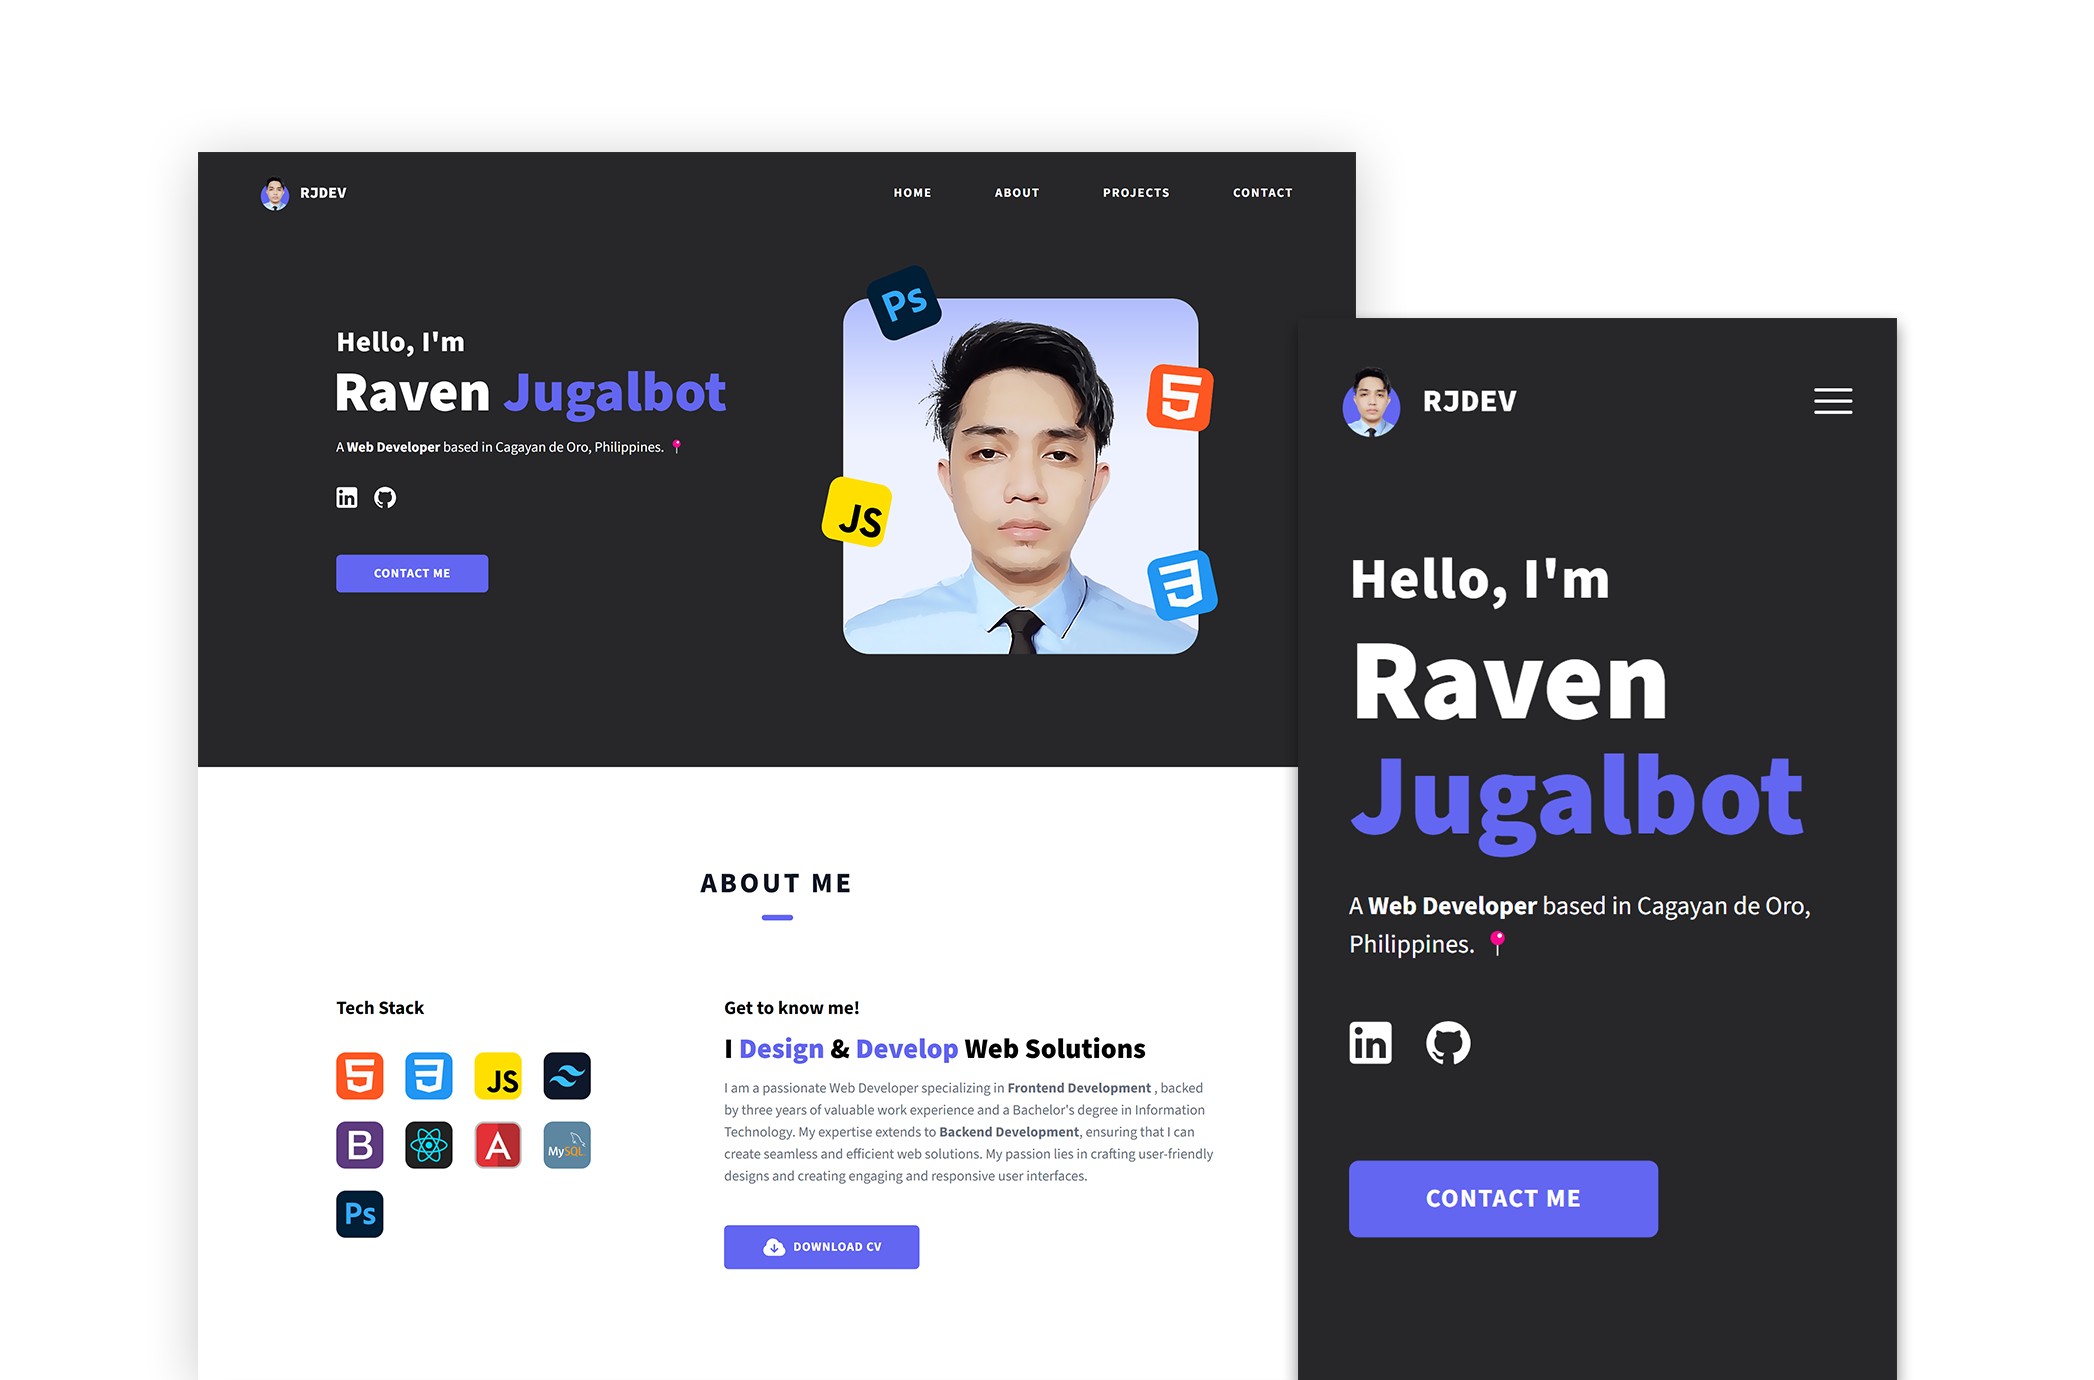
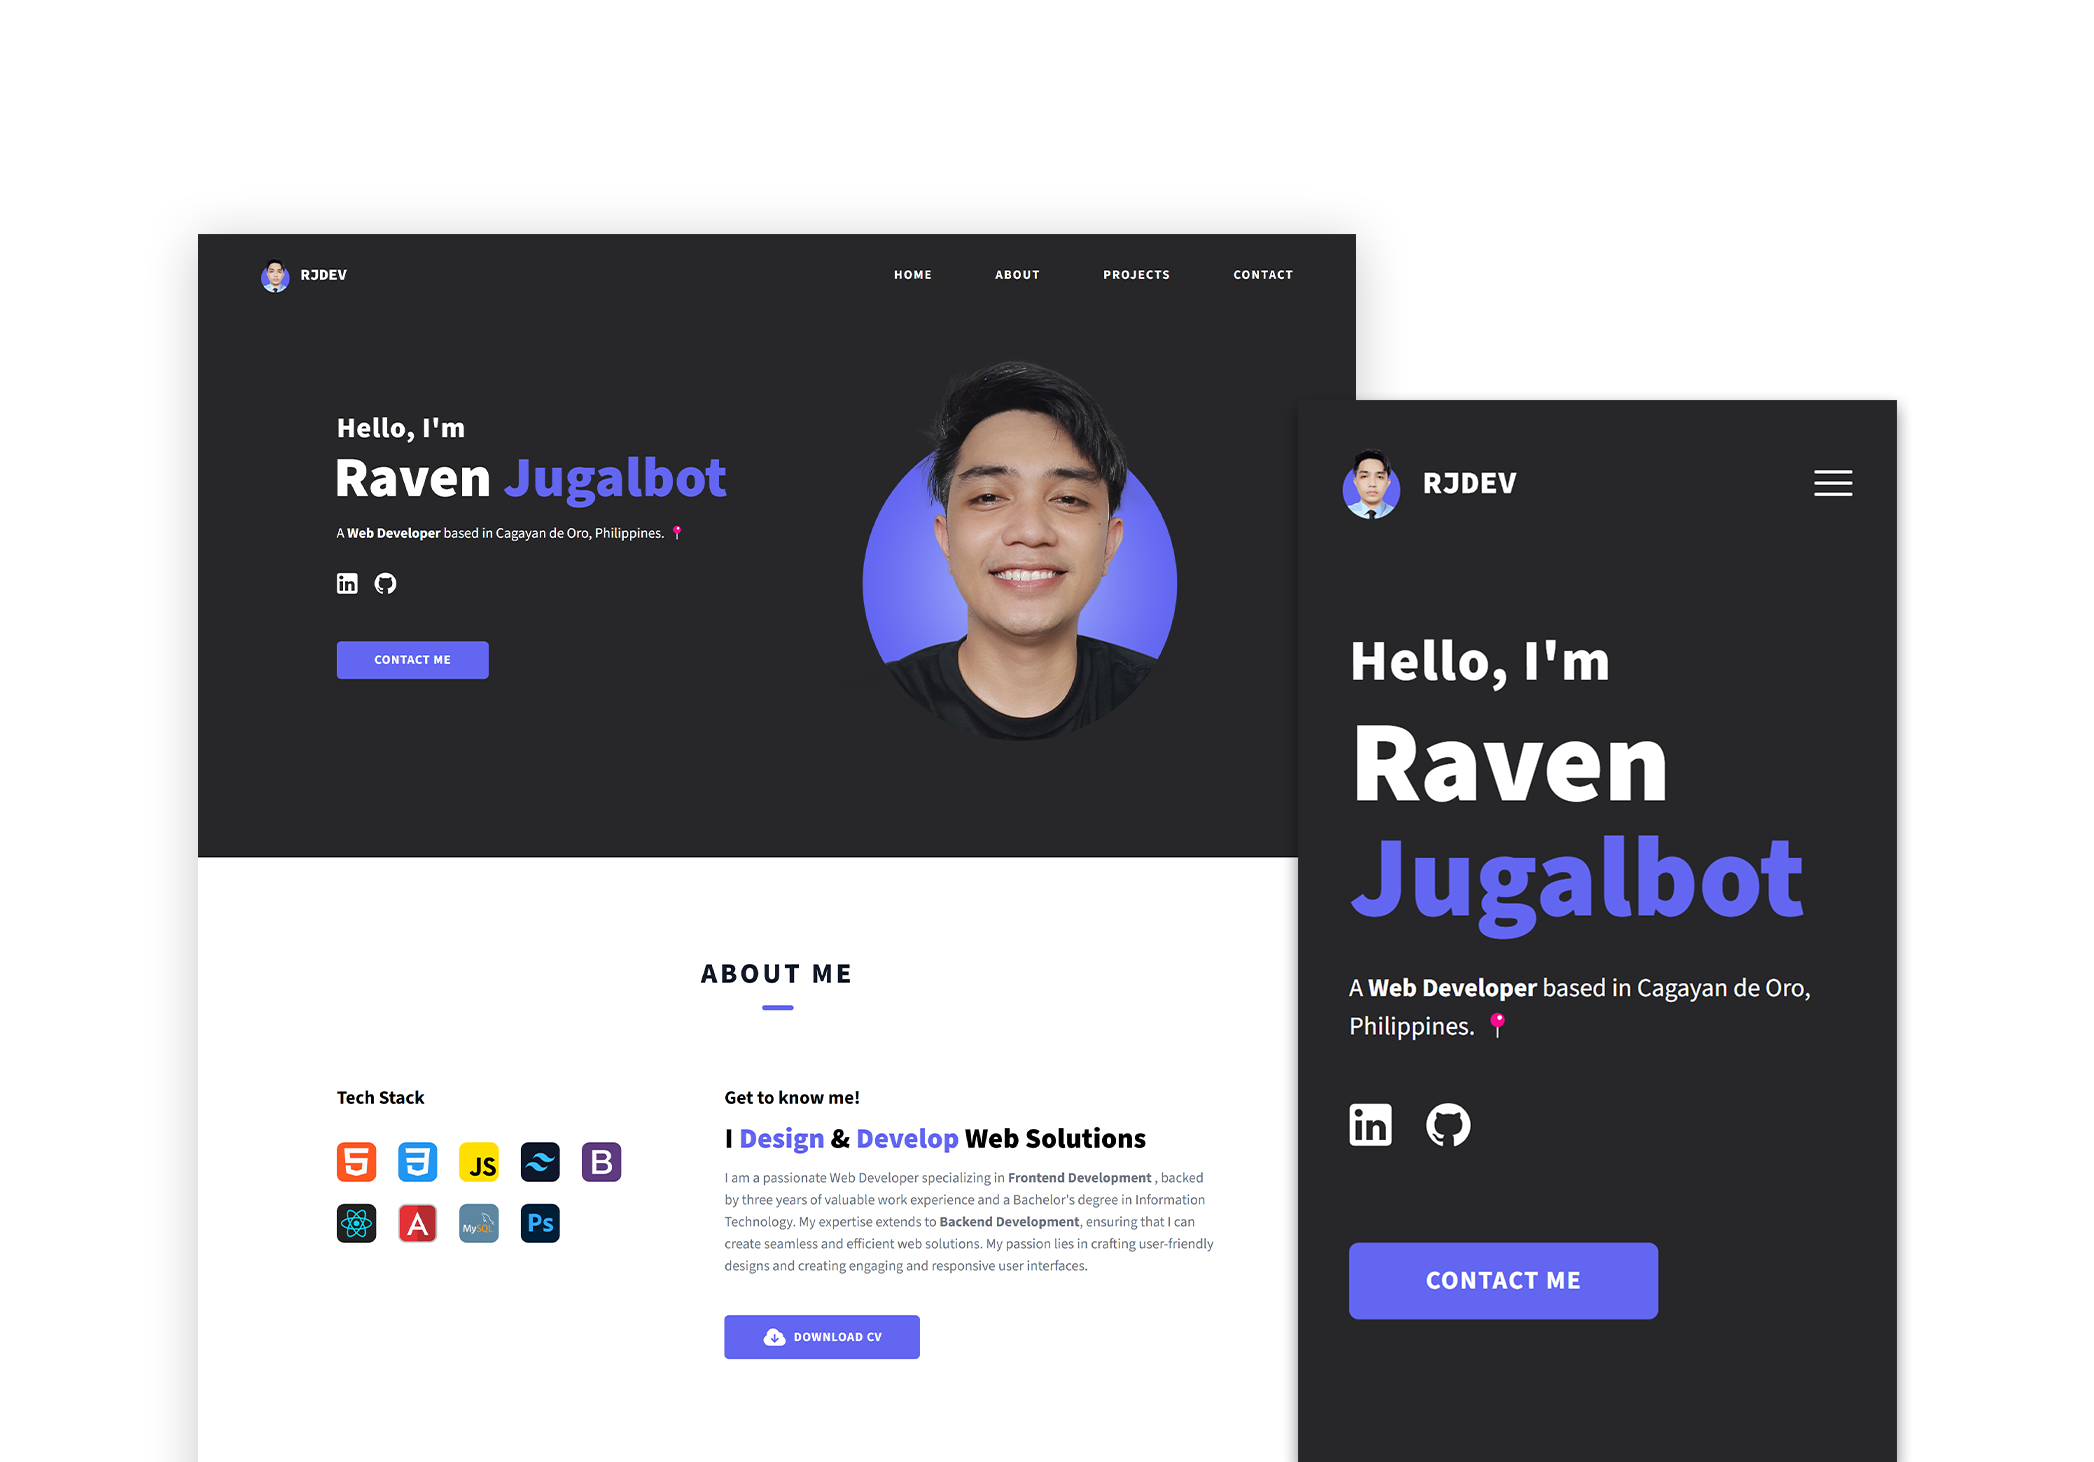
change home, portfolio image

diff --git a/src/pages/Contact.jsx b/src/pages/Contact.jsx
@@ -19,7 +19,47 @@ const Contact = () => {
 
       <div className="md:container md:mx-auto">
         {/* Get in touch */}
-        <div className="flex flex-col gap-10 lg:flex-row lg:justify-between mb-20 p-4">
+        <div className="grid sm:grid-cols-2 xl:grid-cols-3 gap-5 lg:gap-10 mb-5 lg:mb-20 px-4">
+          <div className="p-6 border-2 rounded-xl">
+            <div className="flex align-items-center">
+              <div className="py-3">
+                <MapPinIcon className="h-7 w-7 text-indigo-500" />
+              </div>
+              <div className="ml-4 text-gray-800">
+                <p className="font-bold text-xl">Location</p>
+                <p className="text-sm lg:text-base">
+                  Cagayan de Oro, Philippines
+                </p>
+              </div>
+            </div>
+          </div>
+          <div className="p-6 border-2 rounded-xl">
+            <div className="flex align-items-center">
+              <div className="py-3">
+                <PhoneIcon className="h-7 w-7 text-indigo-500" />
+              </div>
+              <div className="ml-4 text-gray-800">
+                <p className="font-bold text-xl">Phone</p>
+                <p className="text-sm lg:text-base">(+63) 975 626 1803</p>
+              </div>
+            </div>
+          </div>
+          <div className="p-6 border-2 rounded-xl">
+            <div className="flex align-items-center">
+              <div className="py-3">
+                <EnvelopeIcon className="h-7 w-7 text-indigo-500" />
+              </div>
+              <div className="ml-4 text-gray-800">
+                <p className="font-bold text-xl">Email</p>
+                <p className="text-sm lg:text-base">
+                  developer.raven21@gmail.com
+                </p>
+              </div>
+            </div>
+          </div>
+        </div>
+
+        {/* <div className="flex flex-col gap-10 lg:flex-row lg:justify-between mb-20 p-4">
           <div className="flex">
             <div className="bg-white rounded-full my-shadow p-3">
               <MapPinIcon className="h-7 w-7 text-indigo-500" />
@@ -51,14 +91,21 @@ const Contact = () => {
               </p>
             </div>
           </div>
-        </div>
+        </div> */}
         {/* Get in touch end */}
-        <p className="font-bold text-3xl mb-2 px-4">Write Me a Message</p>
-        <p className=" text-gray-500 mb-10 lg:text-xl px-4">
-          Feel free to contact me by filling out the form below. 👇
-        </p>
+
         <div className="flex flex-col gap-10 lg:flex-row lg:justify-between px-4 mb-10">
+          <div className="flex align-middle">
+            <img
+              src={chatting}
+              className="lg:w-[26rem] xl:w-[30rem] hidden lg:block"
+            />
+          </div>
           <div className="bg-white border-solid border-1 rounded-md p-0 w-full lg:w-1/2">
+            <p className="font-bold text-3xl mb-2">Write Me a Message</p>
+            <p className=" text-gray-500 mb-10 lg:text-xl">
+              Feel free to contact me by filling out the form below. 👇
+            </p>
             <form
               action="https://formsubmit.co/b141c7089d169825a13c60d4a1473436"
               method="POST"
@@ -113,9 +160,6 @@ const Contact = () => {
                 {isButtonDisabled ? "SUBMITTING..." : "SUBMIT"}
               </button>
             </form>
-          </div>
-          <div className="flex align-middle">
-            <img src={chatting} className="w-[24rem] hidden lg:block" />
           </div>
         </div>
       </div>

diff --git a/src/pages/Home.jsx b/src/pages/Home.jsx
@@ -5,7 +5,7 @@ import { ChevronDoubleDownIcon } from "@heroicons/react/24/outline";
 import GitHubIcon from "@mui/icons-material/GitHub";
 import LinkedInIcon from "@mui/icons-material/LinkedIn";
 
-import profile2 from "../images/profile2.png";
+import profile2 from "../images/home.png";
 
 const Home = () => {
   const toLinkedin = () => {
@@ -65,7 +65,7 @@ const Home = () => {
           <div className="p-4">
             <img
               src={profile2}
-              className="w-100 hover:-rotate-3 transition-transform"
+              className="w-auto hover:scale-105 transition-all"
             />
           </div>
         </div>

diff --git a/src/pages/About.jsx b/src/pages/About.jsx
@@ -27,7 +27,7 @@ const About = () => {
                   <img
                     src={tech.image}
                     alt={tech.alt}
-                    className="h-auto w-[60px] cursor-pointer hover:-translate-y-2 duration-150"
+                    className="h-auto w-[50px] cursor-pointer hover:-translate-y-2 duration-150"
                   />
                   {/* <p className="text-gray-500 text-sm text-center font-semibold mt-2">
                     {tech.name}

diff --git a/src/pages/Projects.jsx b/src/pages/Projects.jsx
@@ -16,6 +16,9 @@ const Projects = () => {
                 src={project1}
                 alt="Portfolio"
                 className="cursor-pointer hover:scale-105 transition duration-700 ease-in-out"
+                onClick={() =>
+                  window.open("https://nrjportfolio.vercel.app/", "_blank")
+                }
               />
             </div>
           </div>

diff --git a/src/pages/Soon.jsx b/src/pages/Soon.jsx
@@ -2,9 +2,9 @@ import React from "react";
 
 const Soon = () => {
   return (
-    <div className="bg-zinc-500 px-4 md:px-20 py-10">
+    <div className="bg-zinc-600 px-4 md:px-20 py-10">
       <p className="text-white font-[800] text-xl tracking-widest text-center">
-        New projects coming soon...
+        New projects coming soon... 👨💻
       </p>
     </div>
   );

diff --git a/src/pages/Footer.jsx b/src/pages/Footer.jsx
@@ -5,7 +5,6 @@ import { EnvelopeIcon, MapIcon, PhoneIcon } from "@heroicons/react/24/solid";
 const Footer = () => {
   const toSocial = (link) => {
     window.open(link, "_blank");
-    console.log(link);
   };
 
   return (
